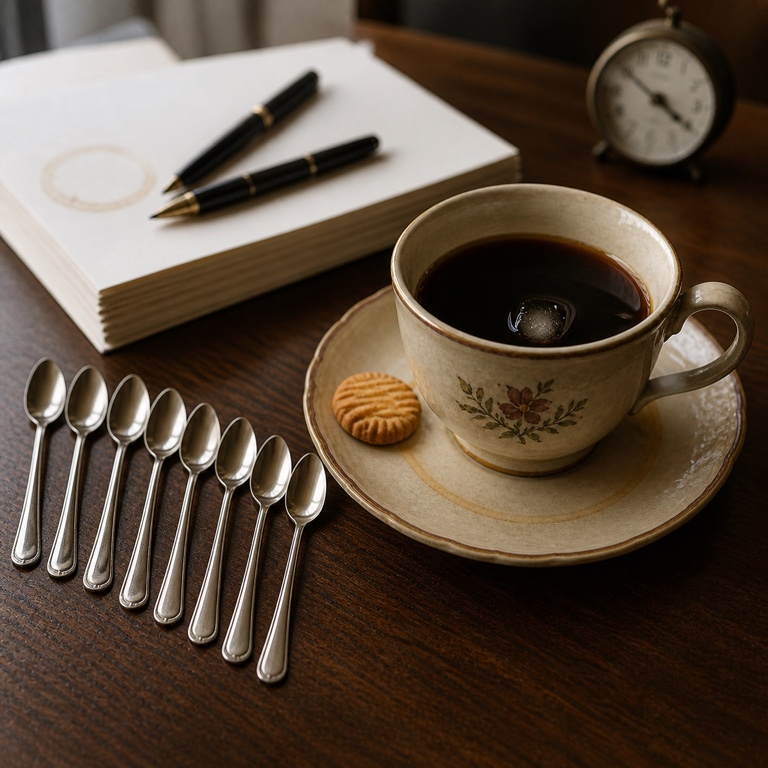
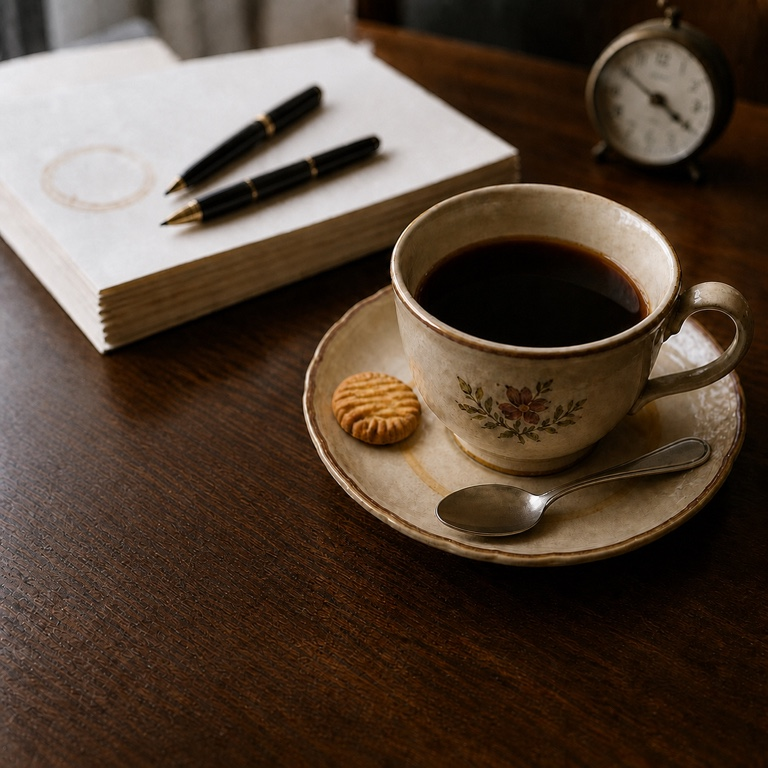
fix: refine meeting coffee card

diff --git a/src/features/cafe_gacha/test_catalog.py b/src/features/cafe_gacha/test_catalog.py
@@ -100,7 +100,7 @@ def test_catalog_includes_social_satire_cafe_cards() -> None:
         "meeting-cooled-coffee": (
             "会議で冷めた珈琲",
             "C",
-            "結論は出なかったが、珈琲だけはしっかり冷めた。",
+            "二時間の会議で決まったのは、次の会議の日程だけ。珈琲はとっくに冷めていた。",
         ),
         "ad-supported-water": (
             "広告つき天然水",

diff --git a/src/features/cafe_gacha/catalog.py b/src/features/cafe_gacha/catalog.py
@@ -970,7 +970,7 @@ CARDS: tuple[CafeCard, ...] = (
         "会議で冷めた珈琲",
         "C",
         1,
-        "結論は出なかったが、珈琲だけはしっかり冷めた。",
+        "二時間の会議で決まったのは、次の会議の日程だけ。珈琲はとっくに冷めていた。",
     ),
     _card(
         "ad-supported-water",
